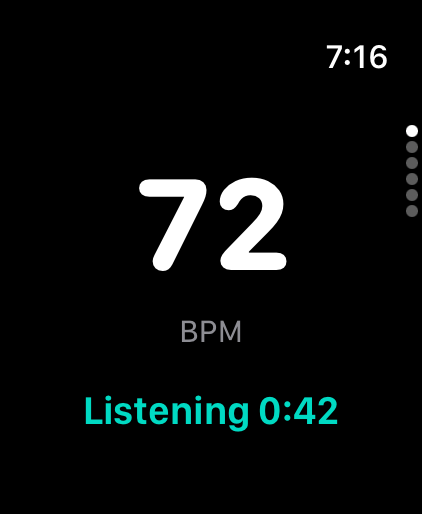
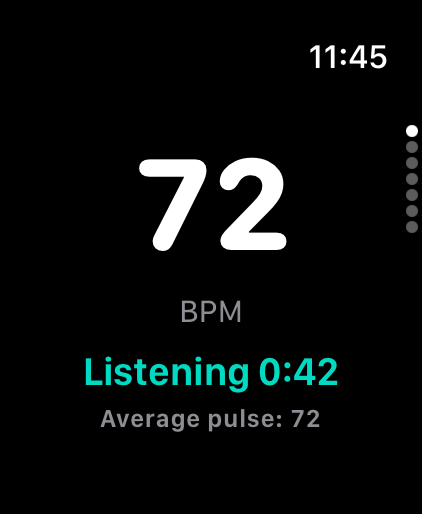
Update guide and support for build 6
Seven screens with new screenshots: Start/Stop Variable and Manual,
Vibration Type, Variable Offset/Min/Max, the average pulse while
listening, and what happens when the watch is taken off.

diff --git a/guide.html b/guide.html
@@ -9,7 +9,7 @@ description: A step-by-step guide to SteadyPulse on Apple Watch, with a picture 
 <div class="guide">
 
 <h1>How to Use SteadyPulse</h1>
-<p class="intro">SteadyPulse has six screens. They sit one below the other, like pages in a
+<p class="intro">SteadyPulse has seven screens. They sit one below the other, like pages in a
   stack. This guide shows each one, from the top down.</p>
 <p><button class="print-button" type="button" onclick="window.print()">Print this guide</button></p>
 
@@ -38,17 +38,17 @@ description: A step-by-step guide to SteadyPulse on Apple Watch, with a picture 
 </section>
 
 <section class="guide-screen" id="screen-1">
-  <p class="screen-label">Screen 1 of 6</p>
+  <p class="screen-label">Screen 1 of 7</p>
   <h2>Your heart rate</h2>
   <div class="watch-pair">
     <figure>
       <img class="watch" src="{{ img }}1-listening.png" width="422" height="514"
-        alt="Watch screen: 72 BPM in large numbers, and Listening 0:42 in green below.">
+        alt="Watch screen: 72 BPM in large numbers, Listening 0:42 in green below, and Average pulse: 72 under that.">
       <figcaption>The first minute</figcaption>
     </figure>
     <figure>
-      <img class="watch" src="{{ img }}1-buzz.png" width="422" height="514"
-        alt="Watch screen: 72 BPM in large numbers, and Buzz 67 in green below.">
+      <img class="watch" src="{{ img }}1-variable.png" width="422" height="514"
+        alt="Watch screen: 72 BPM in large numbers, and Variable 67 in green below.">
       <figcaption>After one minute</figcaption>
     </figure>
   </div>
@@ -58,13 +58,18 @@ description: A step-by-step guide to SteadyPulse on Apple Watch, with a picture 
     is doing:</p>
   <ul class="words">
     <li><span class="wtext">Listening 0:42</span> It is listening to your heart. The clock
-      counts down one minute.</li>
-    <li><span class="wtext">Buzz 67</span> You feel gentle taps on your wrist, 67 each
+      counts down one minute. <strong>Average pulse</strong> below it is your heart rate,
+      averaged so far.</li>
+    <li><span class="wtext">Variable 67</span> You feel gentle taps on your wrist, 67 each
       minute. That is a little slower than your heart.</li>
-    <li><span class="wtext">Manual 60</span> Manual taps are on, 60 each minute. See Screen 3.</li>
+    <li><span class="wtext">Manual 60</span> Manual taps are on, at one steady speed of 60
+      each minute. See Screen 4.</li>
+    <li><span class="wtext off">No heart rate</span> The watch can't read your heart rate, so
+      the taps have stopped. See <a href="#watch-off">Taking your watch off</a>.</li>
     <li><span class="wtext off">Buzz off</span> The taps are stopped.</li>
   </ul>
-  <p>If your heart rate goes down, the taps slow down with it. They never speed up.</p>
+  <p>In Variable, if your heart rate goes down, the taps slow down with it. They never speed
+    up.</p>
 </section>
 
 <div class="next">
@@ -73,31 +78,31 @@ description: A step-by-step guide to SteadyPulse on Apple Watch, with a picture 
 </div>
 
 <section class="guide-screen" id="screen-2">
-  <p class="screen-label">Screen 2 of 6</p>
+  <p class="screen-label">Screen 2 of 7</p>
   <h2>Start and Stop</h2>
   <div class="watch-pair">
     <figure>
       <img class="watch" src="{{ img }}2-stop.png" width="422" height="514"
-        alt="Watch screen with one large red Stop button.">
+        alt="Watch screen with one large red Stop Variable button.">
       <figcaption>While the taps are on</figcaption>
     </figure>
     <figure>
-      <img class="watch" src="{{ img }}2-start-manual.png" width="422" height="514"
-        alt="Watch screen with a green Start button above a blue Manual button.">
+      <img class="watch" src="{{ img }}2-start.png" width="422" height="514"
+        alt="Watch screen with a green Start Variable button above a blue Start Manual button.">
       <figcaption>While the taps are off</figcaption>
     </figure>
   </div>
-  <p>While the taps are on, you see one big <span class="wbtn red">Stop</span> button.
-    Tap it to stop the taps.</p>
+  <p>While the taps are on, you see one big <span class="wbtn red">Stop Variable</span> or
+    <span class="wbtn red">Stop Manual</span> button. Tap it to stop the taps.</p>
   <p>While the taps are off, you see two buttons:</p>
   <ul class="words">
-    <li><span class="wbtn mint">Start</span> Listens to your heart for one minute, then
-      starts gentle taps a little slower than your heart.</li>
-    <li><span class="wbtn blue">Manual</span> Starts taps right away, at the speed you set
-      on Screen 3.</li>
+    <li><span class="wbtn mint">Start Variable</span> Listens to your heart for one minute,
+      then starts gentle taps a little slower than your heart.</li>
+    <li><span class="wbtn blue">Start Manual</span> Starts taps right away, at one steady
+      speed you set on Screen 4.</li>
   </ul>
-  <p>The taps keep going when you lower your arm. Come back here and tap
-    <span class="wbtn red">Stop</span> when you are done.</p>
+  <p>The taps keep going when you lower your arm. Come back here and tap Stop when you are
+    done.</p>
 </section>
 
 <div class="next">
@@ -106,10 +111,30 @@ description: A step-by-step guide to SteadyPulse on Apple Watch, with a picture 
 </div>
 
 <section class="guide-screen" id="screen-3">
-  <p class="screen-label">Screen 3 of 6</p>
+  <p class="screen-label">Screen 3 of 7</p>
+  <h2>Vibration Type</h2>
+  <figure>
+    <img class="watch" src="{{ img }}3-vibration-type.png" width="422" height="514"
+      alt="Watch screen titled Vibration Type, showing Strong triple tap, with a back arrow button and a forward arrow button.">
+  </figure>
+  <p>This sets how each tap feels.</p>
+  <p>Tap the arrows <span class="wbtn mint sym">&lt;</span> <span class="wbtn mint sym">&gt;</span> to try
+    another. There are eight to choose from, such as “Strong triple tap” and
+    “Heartbeat: firm, then light.”</p>
+  <p>If the taps are off, you feel each one as you choose it. SteadyPulse remembers your
+    choice.</p>
+</section>
+
+<div class="next">
+  <span class="next-arrow">{{ arrow }}</span>
+  <p><strong>Next: Screen 4</strong><br>{{ move }}</p>
+</div>
+
+<section class="guide-screen" id="screen-4">
+  <p class="screen-label">Screen 4 of 7</p>
   <h2>Manual BPM</h2>
   <figure>
-    <img class="watch" src="{{ img }}3-manual-bpm.png" width="422" height="514"
+    <img class="watch" src="{{ img }}4-manual-bpm.png" width="422" height="514"
       alt="Watch screen titled Manual BPM, showing 60, with a minus button and a plus button.">
   </figure>
   <p>This sets the speed of <strong>Manual</strong> taps: how many taps in one minute.
@@ -122,36 +147,19 @@ description: A step-by-step guide to SteadyPulse on Apple Watch, with a picture 
 
 <div class="next">
   <span class="next-arrow">{{ arrow }}</span>
-  <p><strong>Next: Screen 4</strong><br>{{ move }}</p>
-</div>
-
-<section class="guide-screen" id="screen-4">
-  <p class="screen-label">Screen 4 of 6</p>
-  <h2>Offset</h2>
-  <figure>
-    <img class="watch" src="{{ img }}4-offset.png" width="422" height="514"
-      alt="Watch screen titled Offset, showing 5, with a minus button and a plus button.">
-  </figure>
-  <p>This sets how much slower than your heart the taps are.</p>
-  <p>With 5, a heart rate of 72 gets 67 taps each minute. A bigger number means slower taps.</p>
-  <p>Most people can leave this at 5.</p>
-</section>
-
-<div class="next">
-  <span class="next-arrow">{{ arrow }}</span>
   <p><strong>Next: Screen 5</strong><br>{{ move }}</p>
 </div>
 
 <section class="guide-screen" id="screen-5">
-  <p class="screen-label">Screen 5 of 6</p>
-  <h2>Minimum</h2>
+  <p class="screen-label">Screen 5 of 7</p>
+  <h2>Variable Offset</h2>
   <figure>
-    <img class="watch" src="{{ img }}5-minimum.png" width="422" height="514"
-      alt="Watch screen titled Minimum, showing 60, with a minus button and a plus button.">
+    <img class="watch" src="{{ img }}5-variable-offset.png" width="422" height="514"
+      alt="Watch screen titled Variable Offset, showing 5, with a minus button and a plus button.">
   </figure>
-  <p>This is the slowest the taps will ever go.</p>
-  <p>With 60, the taps never go slower than 60 each minute, even if your heart rate is lower.</p>
-  <p>Most people can leave this at 60.</p>
+  <p>This sets how much slower than your heart the Variable taps are.</p>
+  <p>With 5, a heart rate of 72 gets 67 taps each minute. A bigger number means slower taps.</p>
+  <p>Most people can leave this at 5.</p>
 </section>
 
 <div class="next">
@@ -160,18 +168,33 @@ description: A step-by-step guide to SteadyPulse on Apple Watch, with a picture 
 </div>
 
 <section class="guide-screen" id="screen-6">
-  <p class="screen-label">Screen 6 of 6</p>
-  <h2>Pulse</h2>
+  <p class="screen-label">Screen 6 of 7</p>
+  <h2>Variable Min</h2>
   <figure>
-    <img class="watch" src="{{ img }}6-pulse.png" width="422" height="514"
-      alt="Watch screen titled Pulse, showing Strong triple tap, with a back arrow button and a forward arrow button.">
+    <img class="watch" src="{{ img }}6-variable-min.png" width="422" height="514"
+      alt="Watch screen titled Variable Min, showing 60, with a minus button and a plus button.">
   </figure>
-  <p>This sets how each tap feels.</p>
-  <p>Tap the arrows <span class="wbtn mint sym">&lt;</span> <span class="wbtn mint sym">&gt;</span> to try
-    another. There are eight to choose from, such as “Strong triple tap” and
-    “Heartbeat: firm, then light.”</p>
-  <p>If the taps are off, you feel each one as you choose it. SteadyPulse remembers your
-    choice.</p>
+  <p>This is the slowest the Variable taps will ever go.</p>
+  <p>With 60, the taps never go slower than 60 each minute, even if your heart rate is lower.</p>
+  <p>Most people can leave this at 60.</p>
+</section>
+
+<div class="next">
+  <span class="next-arrow">{{ arrow }}</span>
+  <p><strong>Next: Screen 7</strong><br>{{ move }}</p>
+</div>
+
+<section class="guide-screen" id="screen-7">
+  <p class="screen-label">Screen 7 of 7</p>
+  <h2>Variable Max</h2>
+  <figure>
+    <img class="watch" src="{{ img }}7-variable-max.png" width="422" height="514"
+      alt="Watch screen titled Variable Max, showing 120, with a minus button and a plus button.">
+  </figure>
+  <p>This is the fastest the Variable taps will ever go.</p>
+  <p>With 120, the taps never go faster than 120 each minute, even if your heart rate is
+    higher.</p>
+  <p>Most people can leave this at 120.</p>
 </section>
 
 <section class="guide-box done">
@@ -180,14 +203,21 @@ description: A step-by-step guide to SteadyPulse on Apple Watch, with a picture 
     other way. Or just wait 30 seconds.</p>
 </section>
 
-<section class="guide-box">
-  <h2>If you see two dashes</h2>
+<section class="guide-box" id="watch-off">
+  <h2>Taking your watch off</h2>
   <figure>
     <img class="watch small" src="{{ img }}no-heart-rate.png" width="422" height="514"
-      alt="Watch screen showing two dashes instead of a heart rate, and Listening 0:56 below.">
+      alt="Watch screen showing two dashes instead of a heart rate, and No heart rate below.">
   </figure>
-  <p>The watch hasn't read your heart rate yet. Make sure your watch is snug on your wrist,
-    and wait a few seconds. SteadyPulse keeps listening until it reads your heart.</p>
+  <p>If you take your watch off, or it is too loose to read your heart rate, you see two
+    dashes and <strong>No heart rate</strong>. After about 30 seconds, the taps stop by
+    themselves.</p>
+  <p>Put the watch back on snugly. When it reads your heart again, SteadyPulse starts
+    listening again by itself.</p>
+  <p>If the watch stays off for more than 10 minutes, SteadyPulse turns off to save battery.
+    Open it again and it starts by itself.</p>
+  <p>Two dashes right after you open SteadyPulse just mean it hasn't read your heart rate
+    yet. Wait a few seconds.</p>
   <p>Still need help? Visit <a href="{{ '/support.html' | relative_url }}">Support</a>.</p>
 </section>
 

diff --git a/index.html b/index.html
@@ -36,8 +36,8 @@ description: A gentle, steady pulse on your wrist, paced to your heart rate. For
     </div>
     <div class="card">
       <h3>Yours to tune</h3>
-      <p>Choose how far below your heart rate the pulse sits, the lowest rate it will
-        go, a fixed manual rate, and the feel of each tap.</p>
+      <p>Choose how far below your heart rate the pulse sits, the lowest and highest
+        rates it will go, a fixed manual rate, and the feel of each tap.</p>
     </div>
     <div class="card">
       <h3>Quiet by design</h3>

diff --git a/support.md b/support.md
@@ -29,24 +29,26 @@ through every screen with large pictures.
 Turn the Digital Crown or swipe up and down to move between pages:
 
 - **Heart rate:** your current heart rate in large numbers. Below it you'll see
-  **Listening** with a countdown during the first minute, **Buzz** and the pulse rate
-  once it's running, **Manual** and the rate in Manual mode, or **Buzz off** when
+  **Listening** with a countdown and your **Average pulse** during the first minute,
+  **Variable** and the pulse rate once it's running, **Manual** and the rate in Manual
+  mode, **No heart rate** if the watch can't read your heart rate, or **Buzz off** when
   stopped.
-- **Start, Manual and Stop:** Start begins the pulse paced to your heart rate. Manual
-  plays a fixed rate you choose. Stop ends the session.
+- **Start and Stop:** Start Variable begins the pulse paced to your heart rate. Start
+  Manual plays a fixed rate you choose. Stop Variable or Stop Manual ends the session.
+- **Vibration Type:** the feel of each tap, such as "Strong triple tap" or "Heartbeat:
+  firm, then light". When the pulse is stopped, changing this plays a sample.
 - **Manual BPM:** the rate used in Manual mode.
-- **Offset:** how many beats per minute below your heart rate the pulse sits.
+- **Variable Offset:** how many beats per minute below your heart rate the pulse sits.
   The default is 5.
-- **Minimum:** the lowest rate the pulse will go. The default is 60.
-- **Pulse:** the feel of each tap, such as "Strong triple tap" or "Heartbeat: firm,
-  then light". When the pulse is stopped, changing this plays a sample.
+- **Variable Min:** the lowest rate the pulse will go. The default is 60.
+- **Variable Max:** the highest rate the pulse will go. The default is 120.
 
 ## How the pulse rate is set
 
-After listening for a minute, SteadyPulse sets the pulse to your average heart rate
-minus the Offset, but never below the Minimum or above 120. While it runs, if your
-average heart rate eases down, the pulse eases down with it. If your heart rate goes
-up, the pulse stays where it is.
+In Variable mode, SteadyPulse listens for a minute, then sets the pulse to your average
+heart rate minus the Variable Offset, kept between the Variable Min and Variable Max.
+While it runs, if your average heart rate eases down, the pulse eases down with it. If
+your heart rate goes up, the pulse stays where it is.
 
 ## Troubleshooting
 
@@ -65,6 +67,12 @@ Open the **Watch** app on your iPhone, scroll to **Available Apps**, and tap
 **The pulse keeps going after I lower my wrist.**
 That's expected. A session keeps running until you open SteadyPulse and tap **Stop**.
 Like a workout, a running session uses more battery than usual.
+
+**What happens when I take my watch off?**
+After about 30 seconds without a heart-rate reading, the pulse stops and the screen
+shows **No heart rate**. Put the watch back on and SteadyPulse starts listening again
+by itself. If the watch stays off for more than 10 minutes, the session ends to save
+battery; open SteadyPulse again and it starts by itself.
 
 **I see a "Mind and Body" workout in Health or Fitness.**
 SteadyPulse runs each session as a Mind and Body workout so it can read your heart
